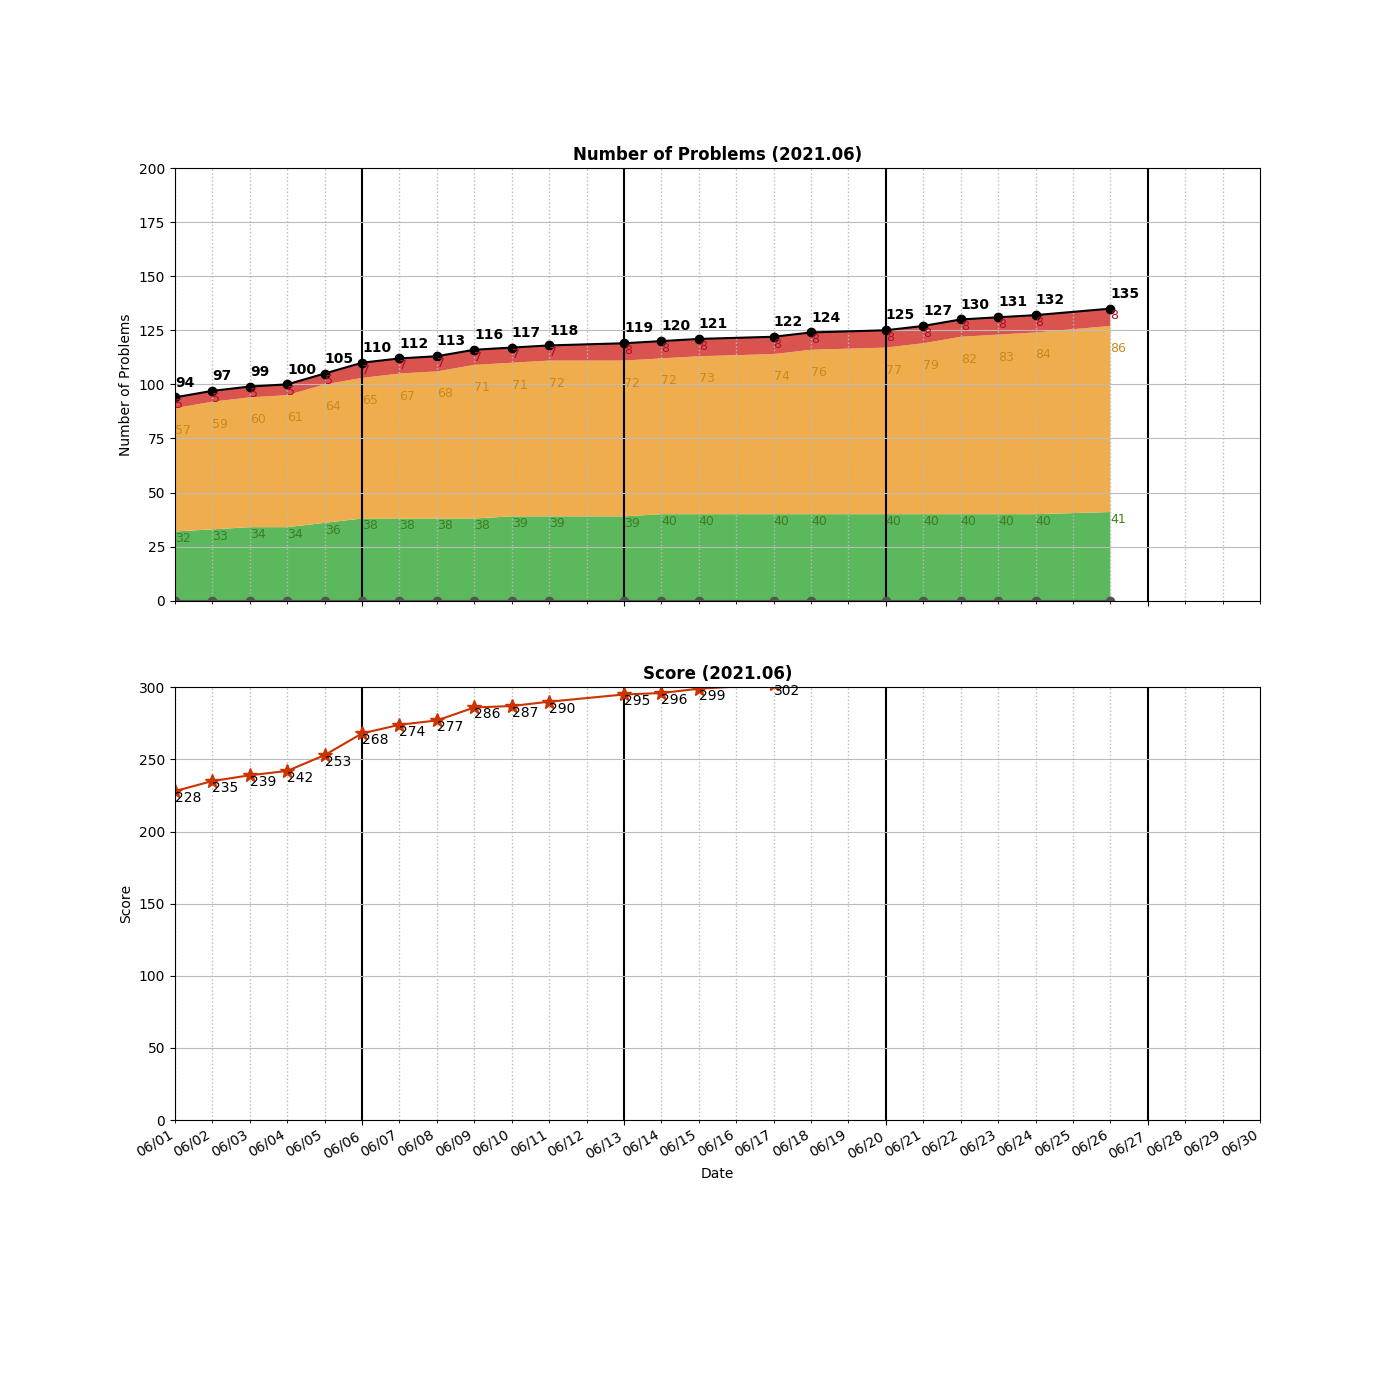
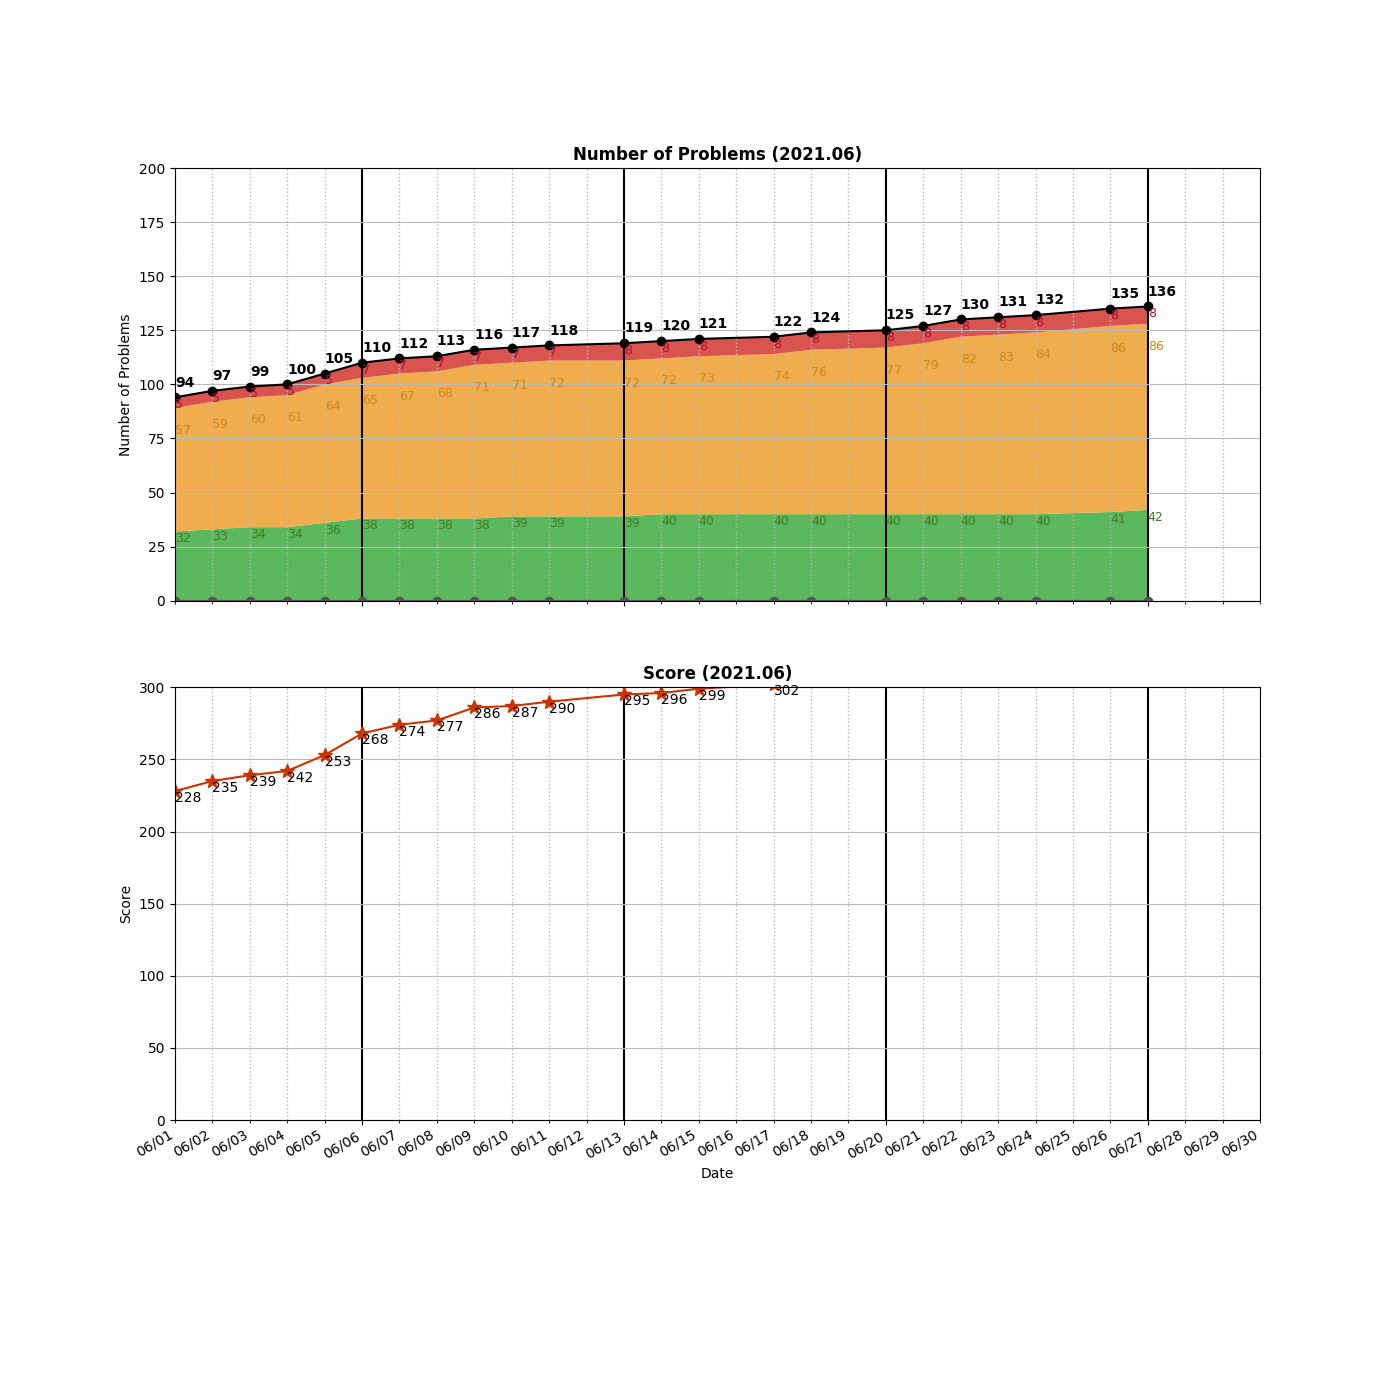
Added __0083__Remove Duplicates from Sorted List.py

Changed region(s): [[0.7679, 0.215, 0.8293, 0.43]]

diff --git a/algo/LinkedList/__0083__Remove Duplicates from Sorted List.py b/algo/LinkedList/__0083__Remove Duplicates from Sorted List.py
@@ -1,0 +1,19 @@
+# Definition for singly-linked list.
+# class ListNode:
+#     def __init__(self, val=0, next=None):
+#         self.val = val
+#         self.next = next
+class Solution:
+    def deleteDuplicates(self, head: ListNode) -> ListNode:
+        if not head:
+            return head
+        
+        p1, p2 = head, head.next
+        while p2:
+            if p1.val == p2.val:
+                p2 = p2.next
+                p1.next = p2
+            else:
+                p1 = p1.next
+                p2 = p2.next
+        return head

diff --git a/README.md b/README.md
@@ -97,6 +97,7 @@ algo
 ├── LinkedList
 │   ├── __0002__Add\ Two\ Numbers.py
 │   ├── __0021__Merge\ Two\ Sorted\ Lists.py
+│   ├── __0083__Remove\ Duplicates\ from\ Sorted\ List.py
 │   ├── __0092__Reverse\ Linked\ List\ II.py
 │   ├── __0141__Linked\ List\ Cycle.py
 │   ├── __0142__Linked\ List\ Cycle\ II.py
@@ -162,7 +163,7 @@ algo
         ├── LinkedList.cpython-37.pyc
         └── UnrolledLinkedList.cpython-37.pyc
 
-19 directories, 142 files
+19 directories, 143 files
 
 =====================================
 ============= Local Repo ============
@@ -201,6 +202,7 @@ __0075__Sort Colors.py
 __0077__Combinations.py
 __0078__Subsets.py
 __0079__Word Search.py
+__0083__Remove Duplicates from Sorted List.py
 __0090__Subsets II.py
 __0092__Reverse Linked List II.py
 __0094__Binary Tree Inorder Traversal.py 
@@ -301,7 +303,7 @@ __1254__Number of Closed Islands.py
 __1429__First Unique Number.py
 __1593__Split a String Into the Max Number of Unique Substrings.py
 =====================================
-Num of Python Practice:  133
+Num of Python Practice:  134
 
 
 =====================================
@@ -343,6 +345,7 @@ Num of Python Practice:  133
  0077 Combinations
  0078 Subsets
  0079 Word Search
+ 0083 Remove Duplicates from Sorted List
  0090 Subsets II
  0092 Reverse Linked List II
  0094 Binary Tree Inorder Traversal
@@ -443,11 +446,11 @@ Num of Python Practice:  133
  1429 First Unique Number
  1593 Split a String Into the Max Number of Unique Substrings
 =====================================
-Solved / Total (Easy)  :   41 /  500
-Solved / Total (Medium):   86 / 1008
-Solved / Total (Hard)  :    8 /  399
-Solved / Total (All)   :  135 / 1907
-Total Score            :  339
+Solved / Total (Easy)  :   42 /  502
+Solved / Total (Medium):   86 / 1012
+Solved / Total (Hard)  :    8 /  401
+Solved / Total (All)   :  136 / 1915
+Total Score            :  340
 =====================================
 
 ```
